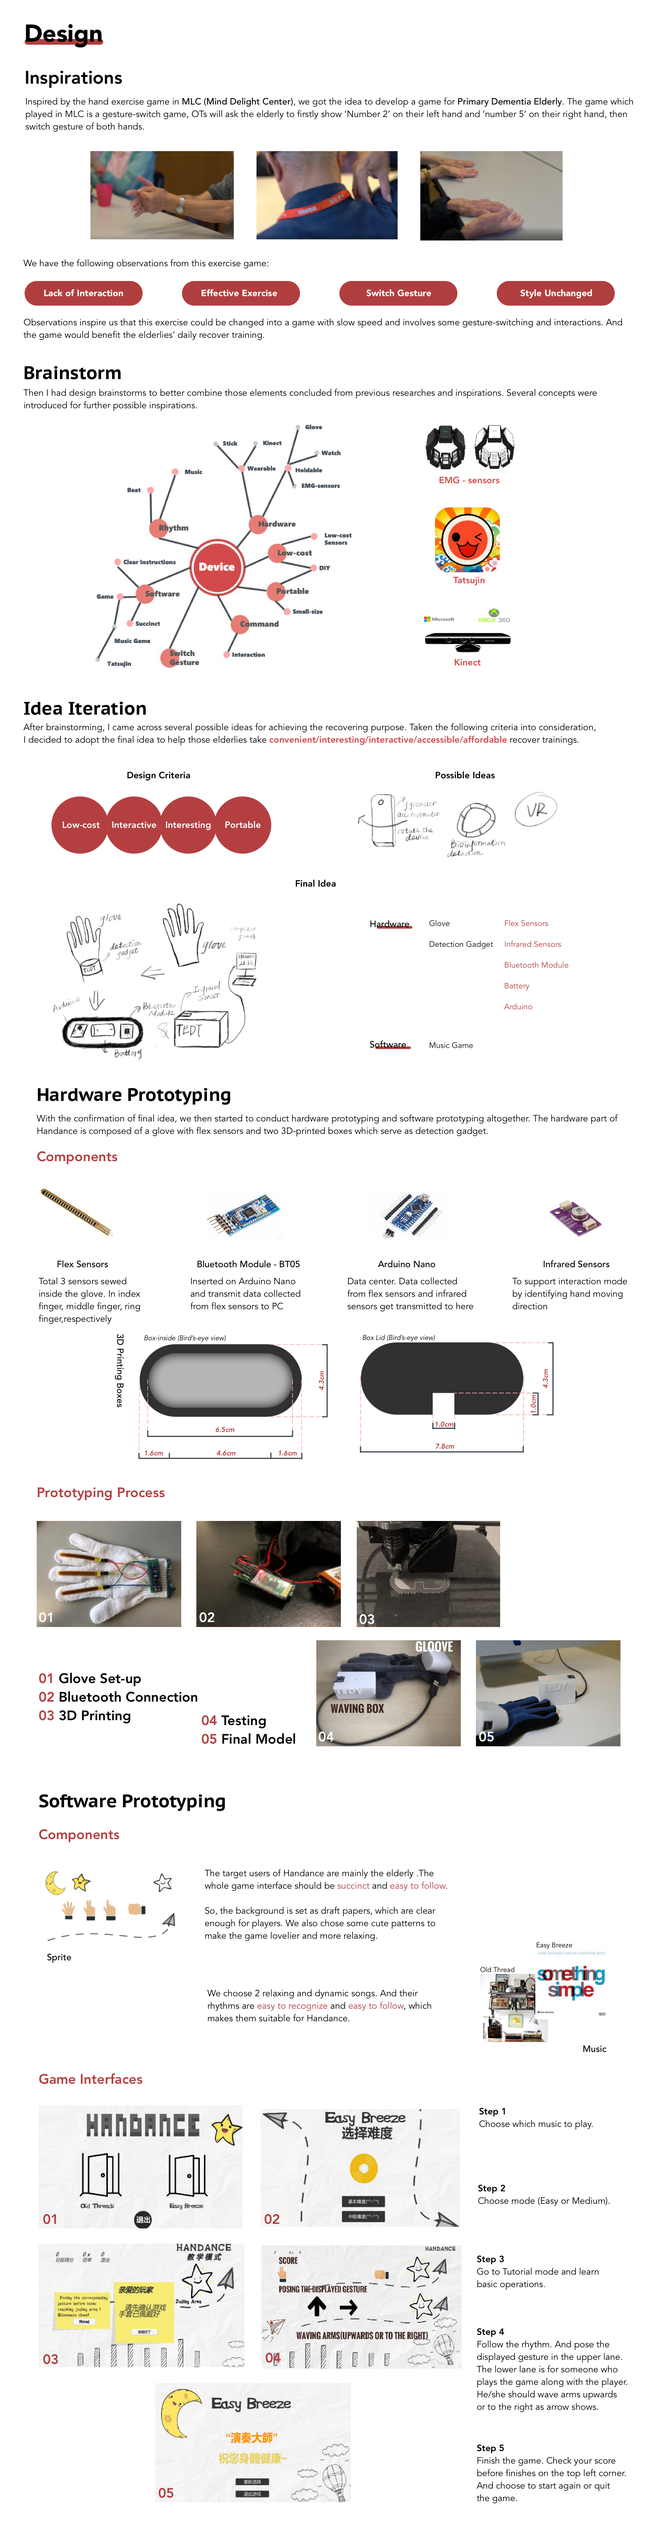
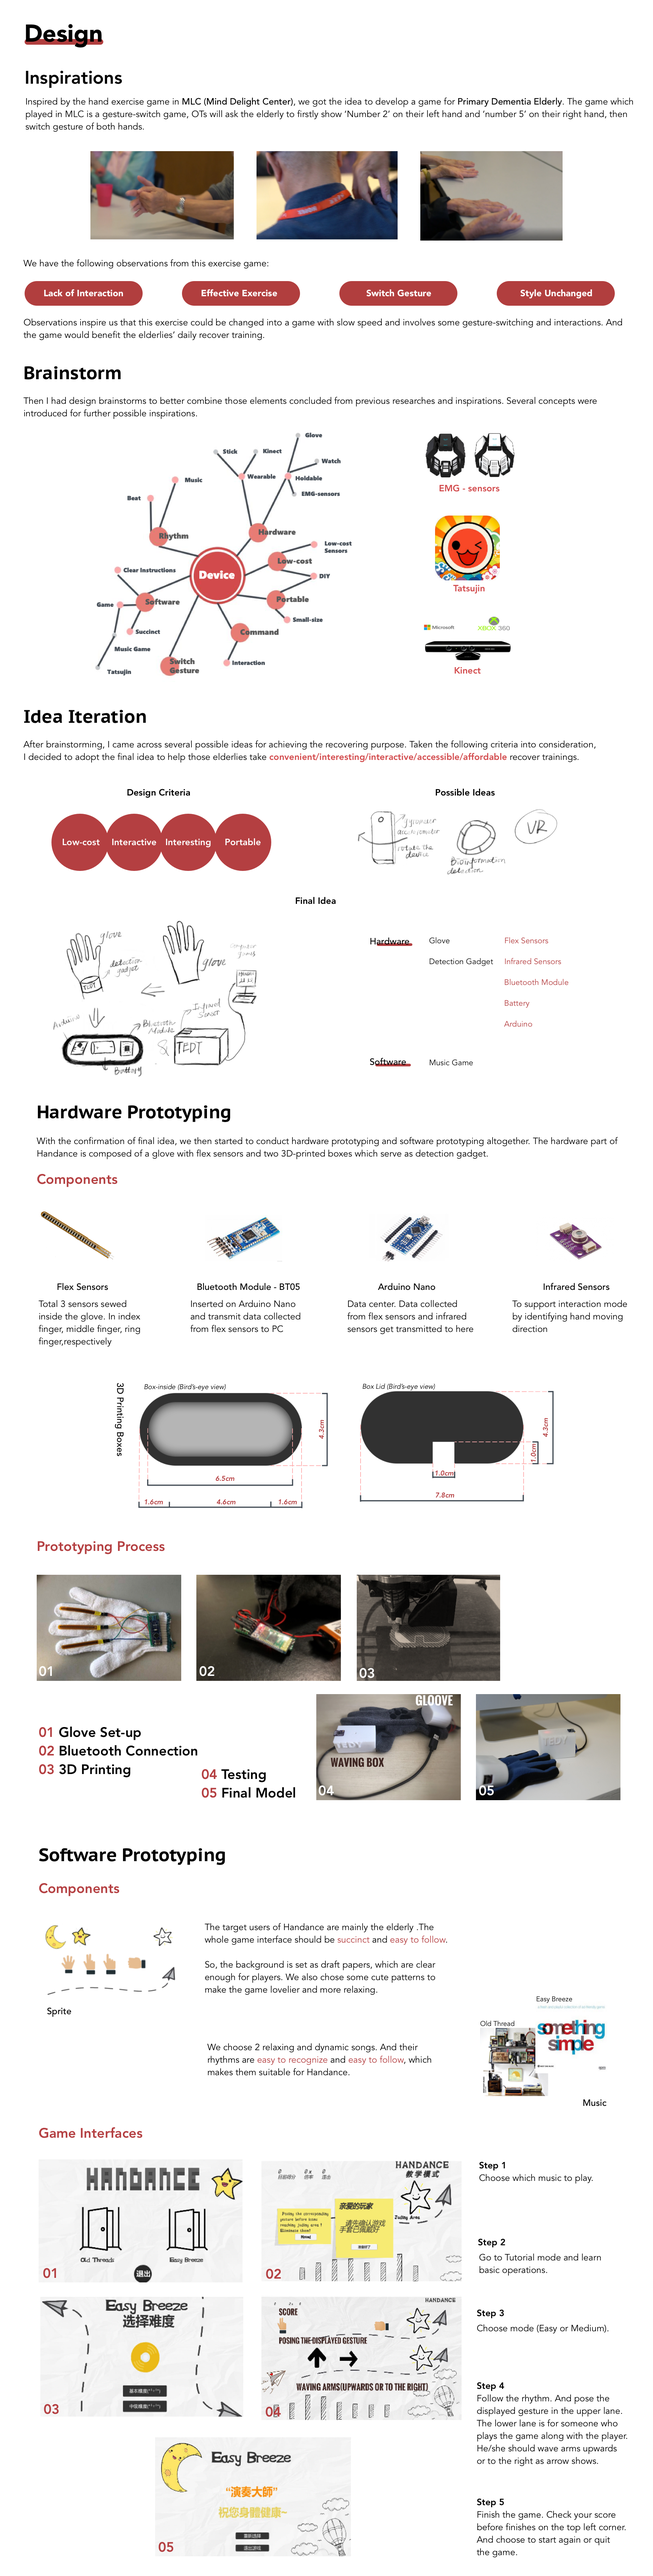
add more photos

diff --git a/project01.html b/project01.html
@@ -1,4 +1,4 @@
-<!DOCTYPE html>
+<!DOCTYPE html>
 <html lang="en">
 <head>
 
@@ -129,7 +129,8 @@
                 
                 
                 
-                <!-- Row --> 
+                <!-- Row -->
+                <!-- 
                 <div class="vc_row row_padding_top">
                 
                     <div class="container">           
@@ -157,13 +158,18 @@
                     </div>
                    
                 </div>
+            -->
                 <!--/Row -->
                  <div class="vc_row row_no_padding_top">
                 
-                    <div class="container">           
+                    <div class="container-about"> 
+                    <div class="slide"><img src="images/projects/aboutthepj.png" alt="Image Title"></div>
+
                      <div class="slide"><img src="images/projects/overview.png" alt="Image Title"></div>
                      <div class="slide"><img src="images/projects/research.png" alt="Image Title"></div>
                      <div class="slide"><img src="images/projects/design.png" alt="Image Title"></div>
+                     <div class="slide"><img src="images/projects/evaluation.png" alt="Image Title"></div>
+                     <div class="slide"><img src="images/projects/improvements.png" alt="Image Title"></div>
                     </div>
                 </div>
                 
